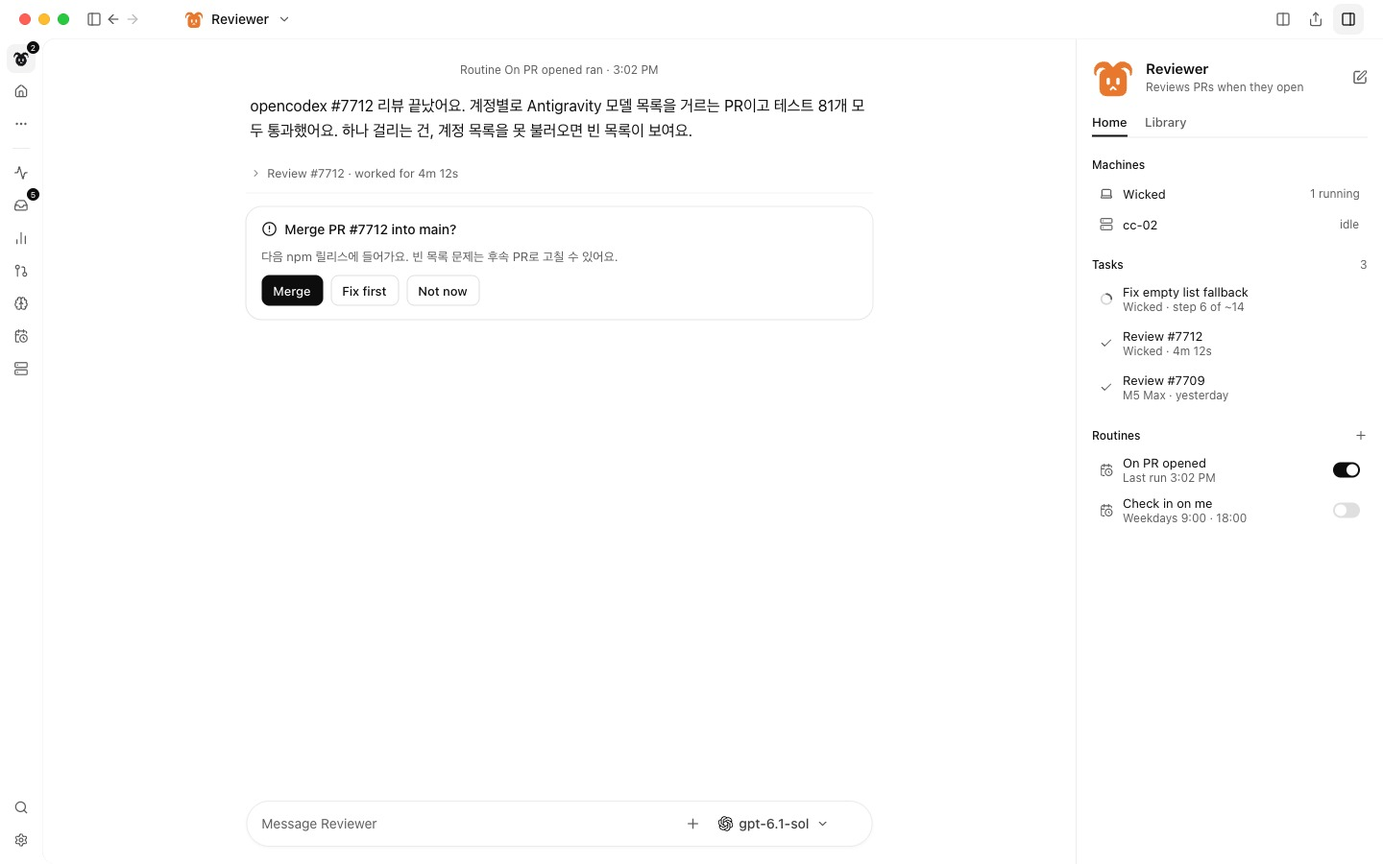
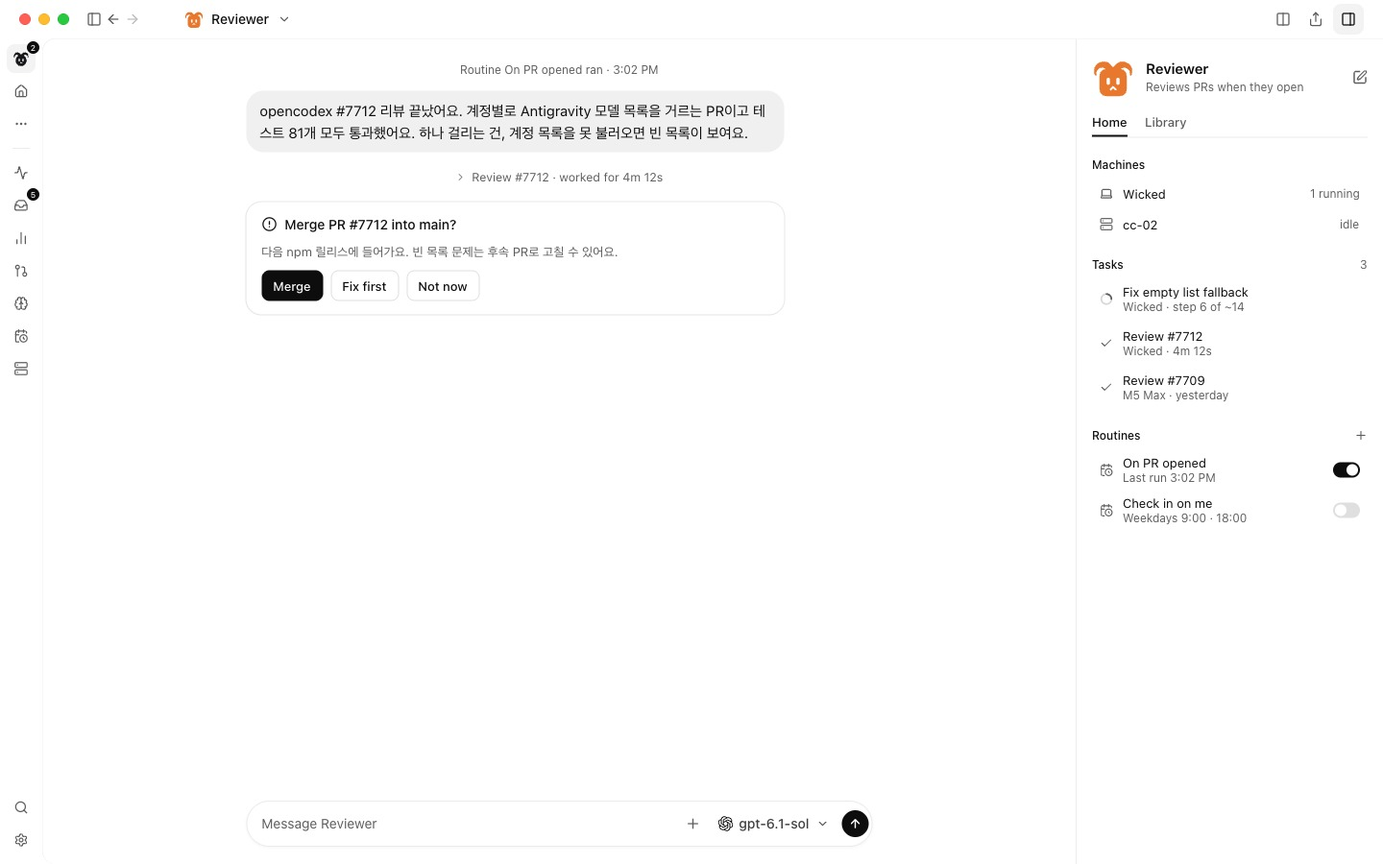
design: bot chat fixes from Grok Bot (reply bubbles, send button, centered task event, card width)

Changed region(s): [[0.1875, 0.0933, 0.625, 0.2178], [0.1875, 0.2489, 0.4375, 0.3733], [0.5938, 0.9333, 0.625, 0.9644]]

diff --git a/design/paper/part1/12P-1.jsx b/design/paper/part1/12P-1.jsx
@@ -395,13 +395,13 @@
                     <div style={{ boxSizing: 'border-box', color: '#5D5D5D', fontFamily: '"SF Pro", system-ui, sans-serif', fontSize: '12px', lineHeight: '16px', textAlign: 'center' }}>
                       Routine On PR opened ran · 3:02 PM
                     </div>
-                    <div style={{ boxSizing: 'border-box', maxWidth: '680px', paddingBlock: '2px', paddingInline: '4px' }}>
-                      <div style={{ boxSizing: 'border-box', color: '#0D0D0D', fontFamily: '"SF Pro", system-ui, sans-serif', fontSize: '16px', lineHeight: '26px' }}>
+                    <div style={{ alignSelf: 'start', backgroundColor: '#F0F0F0', borderRadius: '18px', boxSizing: 'border-box', maxWidth: '560px', paddingBlock: '9px', paddingInline: '14px' }}>
+                      <div style={{ boxSizing: 'border-box', color: '#0D0D0D', fontFamily: '"SF Pro", system-ui, sans-serif', fontSize: '15px', lineHeight: '23px' }}>
                         opencodex #7712 리뷰 끝났어요. 계정별로 Antigravity 모델 목록을 거르는 PR이고 테스트 81개 모두 통과했어요. 하나 걸리는 건, 계정 목록을 못 불러오면 빈 목록이 보여요.
                       </div>
                     </div>
-                    <div style={{ borderBottomColor: '#ECECEC99', borderBottomStyle: 'solid', borderBottomWidth: '1px', boxSizing: 'border-box', display: 'flex', flexDirection: 'column', paddingBottom: '8px', paddingTop: '4px' }}>
-                      <div style={{ alignItems: 'center', boxSizing: 'border-box', display: 'flex', flexShrink: 0, gap: '6px', height: '24px', paddingInline: '4px' }}>
+                    <div style={{ alignItems: 'center', boxSizing: 'border-box', display: 'flex', flexDirection: 'column' }}>
+                      <div style={{ alignItems: 'center', boxSizing: 'border-box', display: 'flex', flexShrink: 0, gap: '6px', height: '24px', justifyContent: 'center', paddingInline: '4px' }}>
                         <svg width="12" height="12" viewBox="0 0 24 24" xmlns="http://www.w3.org/2000/svg" style={{ flexShrink: '0' }}>
                           <path d="m9 18 6-6-6-6" fill="none" stroke="#5D5D5D" strokeWidth="2" strokeLinecap="round" strokeLinejoin="round" />
                         </svg>
@@ -410,7 +410,7 @@
                         </div>
                       </div>
                     </div>
-                    <div style={{ backgroundColor: '#FFFFFF', borderRadius: '16px', boxShadow: '#00000014 0px 0px 0px 1px, #0000000D 0px 1px 2px', boxSizing: 'border-box', display: 'flex', flexDirection: 'column', gap: '10px', paddingBlock: '14px', paddingInline: '16px' }}>
+                    <div style={{ alignSelf: 'start', backgroundColor: '#FFFFFF', borderRadius: '16px', boxShadow: '#00000014 0px 0px 0px 1px, #0000000D 0px 1px 2px', boxSizing: 'border-box', display: 'flex', flexDirection: 'column', gap: '10px', maxWidth: '560px', paddingBlock: '14px', paddingInline: '16px', width: '100%' }}>
                       <div style={{ alignItems: 'center', boxSizing: 'border-box', display: 'flex', gap: '8px' }}>
                         <svg width="16" height="16" viewBox="0 0 24 24" xmlns="http://www.w3.org/2000/svg" style={{ flexShrink: '0' }}>
                           <circle cx="12" cy="12" r="10" fill="none" stroke="#0D0D0D" strokeWidth="2" strokeLinecap="round" strokeLinejoin="round" />
@@ -486,7 +486,12 @@
                           <path d="m6 9 6 6 6-6" fill="none" stroke="#5D5D5D" strokeWidth="2" strokeLinecap="round" strokeLinejoin="round" />
                         </svg>
                       </div>
-                      <div style={{ boxSizing: 'border-box', flexShrink: 0, height: '28px', width: '28px' }} />
+                      <div style={{ alignItems: 'center', backgroundColor: '#0D0D0D', borderRadius: '999px', boxSizing: 'border-box', display: 'flex', flexShrink: '0', height: '28px', justifyContent: 'center', width: '28px' }}>
+                        <svg width="14" height="14" viewBox="0 0 24 24" xmlns="http://www.w3.org/2000/svg" style={{ display: 'inline-block', flexShrink: 0 }}>
+                          <path d="M12 19V5" fill="none" stroke="#FFFFFF" strokeWidth="2.4" strokeLinecap="round" />
+                          <path d="m5 12 7-7 7 7" fill="none" stroke="#FFFFFF" strokeWidth="2.4" strokeLinecap="round" strokeLinejoin="round" />
+                        </svg>
+                      </div>
                     </div>
                   </div>
                 </div>

diff --git a/design/paper/part1/1FKW-0.jsx b/design/paper/part1/1FKW-0.jsx
@@ -405,13 +405,13 @@
                     <div style={{ boxSizing: 'border-box', color: '#5D5D5D', fontFamily: '"SF Pro", system-ui, sans-serif', fontSize: '12px', lineHeight: '16px', textAlign: 'center' }}>
                       Routine On PR opened ran · 3:02 PM
                     </div>
-                    <div style={{ boxSizing: 'border-box', maxWidth: '680px', paddingBlock: '2px', paddingInline: '4px' }}>
-                      <div style={{ boxSizing: 'border-box', color: '#0D0D0D', fontFamily: '"SF Pro", system-ui, sans-serif', fontSize: '16px', lineHeight: '26px' }}>
+                    <div style={{ alignSelf: 'start', backgroundColor: '#F0F0F0', borderRadius: '18px', boxSizing: 'border-box', maxWidth: '560px', paddingBlock: '9px', paddingInline: '14px' }}>
+                      <div style={{ boxSizing: 'border-box', color: '#0D0D0D', fontFamily: '"SF Pro", system-ui, sans-serif', fontSize: '15px', lineHeight: '23px' }}>
                         opencodex #7712 리뷰 끝났어요. 계정별로 Antigravity 모델 목록을 거르는 PR이고 테스트 81개 모두 통과했어요. 하나 걸리는 건, 계정 목록을 못 불러오면 빈 목록이 보여요.
                       </div>
                     </div>
-                    <div style={{ borderBottomColor: '#ECECEC99', borderBottomStyle: 'solid', borderBottomWidth: '1px', boxSizing: 'border-box', display: 'flex', flexDirection: 'column', paddingBottom: '8px', paddingTop: '4px' }}>
-                      <div style={{ alignItems: 'center', boxSizing: 'border-box', display: 'flex', flexShrink: 0, gap: '6px', height: '24px', paddingInline: '4px' }}>
+                    <div style={{ alignItems: 'center', boxSizing: 'border-box', display: 'flex', flexDirection: 'column' }}>
+                      <div style={{ alignItems: 'center', boxSizing: 'border-box', display: 'flex', flexShrink: 0, gap: '6px', height: '24px', justifyContent: 'center', paddingInline: '4px' }}>
                         <svg width="12" height="12" viewBox="0 0 24 24" xmlns="http://www.w3.org/2000/svg" style={{ flexShrink: '0' }}>
                           <path d="m9 18 6-6-6-6" fill="none" stroke="#5D5D5D" strokeWidth="2" strokeLinecap="round" strokeLinejoin="round" />
                         </svg>
@@ -420,7 +420,7 @@
                         </div>
                       </div>
                     </div>
-                    <div style={{ backgroundColor: '#FFFFFF', borderRadius: '16px', boxShadow: '#00000014 0px 0px 0px 1px, #0000000D 0px 1px 2px', boxSizing: 'border-box', display: 'flex', flexDirection: 'column', gap: '10px', paddingBlock: '14px', paddingInline: '16px' }}>
+                    <div style={{ alignSelf: 'start', backgroundColor: '#FFFFFF', borderRadius: '16px', boxShadow: '#00000014 0px 0px 0px 1px, #0000000D 0px 1px 2px', boxSizing: 'border-box', display: 'flex', flexDirection: 'column', gap: '10px', maxWidth: '560px', paddingBlock: '14px', paddingInline: '16px', width: '100%' }}>
                       <div style={{ alignItems: 'center', boxSizing: 'border-box', display: 'flex', gap: '8px' }}>
                         <svg width="16" height="16" viewBox="0 0 24 24" xmlns="http://www.w3.org/2000/svg" style={{ flexShrink: '0' }}>
                           <circle cx="12" cy="12" r="10" fill="none" stroke="#0D0D0D" strokeWidth="2" strokeLinecap="round" strokeLinejoin="round" />
@@ -478,7 +478,12 @@
                           <path d="m6 9 6 6 6-6" fill="none" stroke="#5D5D5D" strokeWidth="2" strokeLinecap="round" strokeLinejoin="round" />
                         </svg>
                       </div>
-                      <div style={{ boxSizing: 'border-box', flexShrink: 0, height: '28px', width: '28px' }} />
+                      <div style={{ alignItems: 'center', backgroundColor: '#0D0D0D', borderRadius: '999px', boxSizing: 'border-box', display: 'flex', flexShrink: '0', height: '28px', justifyContent: 'center', width: '28px' }}>
+                        <svg width="14" height="14" viewBox="0 0 24 24" xmlns="http://www.w3.org/2000/svg" style={{ display: 'inline-block', flexShrink: 0 }}>
+                          <path d="M12 19V5" fill="none" stroke="#FFFFFF" strokeWidth="2.4" strokeLinecap="round" />
+                          <path d="m5 12 7-7 7 7" fill="none" stroke="#FFFFFF" strokeWidth="2.4" strokeLinecap="round" strokeLinejoin="round" />
+                        </svg>
+                      </div>
                     </div>
                   </div>
                 </div>

diff --git a/design/paper/part1/1KL4-1.jsx b/design/paper/part1/1KL4-1.jsx
@@ -385,13 +385,13 @@
                     <div style={{ boxSizing: 'border-box', color: '#5D5D5D', fontFamily: '"SF Pro", system-ui, sans-serif', fontSize: '12px', lineHeight: '16px', textAlign: 'center' }}>
                       Routine On PR opened ran · 3:02 PM
                     </div>
-                    <div style={{ boxSizing: 'border-box', maxWidth: '680px', paddingBlock: '2px', paddingInline: '4px' }}>
-                      <div style={{ boxSizing: 'border-box', color: '#0D0D0D', fontFamily: '"SF Pro", system-ui, sans-serif', fontSize: '16px', lineHeight: '26px' }}>
+                    <div style={{ alignSelf: 'start', backgroundColor: '#F0F0F0', borderRadius: '18px', boxSizing: 'border-box', maxWidth: '560px', paddingBlock: '9px', paddingInline: '14px' }}>
+                      <div style={{ boxSizing: 'border-box', color: '#0D0D0D', fontFamily: '"SF Pro", system-ui, sans-serif', fontSize: '15px', lineHeight: '23px' }}>
                         opencodex #7712 리뷰 끝났어요. 계정별로 Antigravity 모델 목록을 거르는 PR이고 테스트 81개 모두 통과했어요. 하나 걸리는 건, 계정 목록을 못 불러오면 빈 목록이 보여요.
                       </div>
                     </div>
-                    <div style={{ borderBottomColor: '#ECECEC99', borderBottomStyle: 'solid', borderBottomWidth: '1px', boxSizing: 'border-box', display: 'flex', flexDirection: 'column', paddingBottom: '8px', paddingTop: '4px' }}>
-                      <div style={{ alignItems: 'center', boxSizing: 'border-box', display: 'flex', flexShrink: 0, gap: '6px', height: '24px', paddingInline: '4px' }}>
+                    <div style={{ alignItems: 'center', boxSizing: 'border-box', display: 'flex', flexDirection: 'column' }}>
+                      <div style={{ alignItems: 'center', boxSizing: 'border-box', display: 'flex', flexShrink: 0, gap: '6px', height: '24px', justifyContent: 'center', paddingInline: '4px' }}>
                         <svg width="12" height="12" viewBox="0 0 24 24" xmlns="http://www.w3.org/2000/svg" style={{ flexShrink: '0' }}>
                           <path d="m9 18 6-6-6-6" fill="none" stroke="#5D5D5D" strokeWidth="2" strokeLinecap="round" strokeLinejoin="round" />
                         </svg>
@@ -400,7 +400,7 @@
                         </div>
                       </div>
                     </div>
-                    <div style={{ backgroundColor: '#FFFFFF', borderRadius: '16px', boxShadow: '#00000014 0px 0px 0px 1px, #0000000D 0px 1px 2px', boxSizing: 'border-box', display: 'flex', flexDirection: 'column', gap: '10px', paddingBlock: '14px', paddingInline: '16px' }}>
+                    <div style={{ alignSelf: 'start', backgroundColor: '#FFFFFF', borderRadius: '16px', boxShadow: '#00000014 0px 0px 0px 1px, #0000000D 0px 1px 2px', boxSizing: 'border-box', display: 'flex', flexDirection: 'column', gap: '10px', maxWidth: '560px', paddingBlock: '14px', paddingInline: '16px', width: '100%' }}>
                       <div style={{ alignItems: 'center', boxSizing: 'border-box', display: 'flex', gap: '8px' }}>
                         <svg width="16" height="16" viewBox="0 0 24 24" xmlns="http://www.w3.org/2000/svg" style={{ flexShrink: '0' }}>
                           <circle cx="12" cy="12" r="10" fill="none" stroke="#0D0D0D" strokeWidth="2" strokeLinecap="round" strokeLinejoin="round" />
@@ -458,7 +458,12 @@
                           <path d="m6 9 6 6 6-6" fill="none" stroke="#5D5D5D" strokeWidth="2" strokeLinecap="round" strokeLinejoin="round" />
                         </svg>
                       </div>
-                      <div style={{ boxSizing: 'border-box', flexShrink: 0, height: '28px', width: '28px' }} />
+                      <div style={{ alignItems: 'center', backgroundColor: '#0D0D0D', borderRadius: '999px', boxSizing: 'border-box', display: 'flex', flexShrink: '0', height: '28px', justifyContent: 'center', width: '28px' }}>
+                        <svg width="14" height="14" viewBox="0 0 24 24" xmlns="http://www.w3.org/2000/svg" style={{ display: 'inline-block', flexShrink: 0 }}>
+                          <path d="M12 19V5" fill="none" stroke="#FFFFFF" strokeWidth="2.4" strokeLinecap="round" />
+                          <path d="m5 12 7-7 7 7" fill="none" stroke="#FFFFFF" strokeWidth="2.4" strokeLinecap="round" strokeLinejoin="round" />
+                        </svg>
+                      </div>
                     </div>
                   </div>
                 </div>

diff --git a/design/paper/part1/25D-0.jsx b/design/paper/part1/25D-0.jsx
@@ -400,13 +400,13 @@
                     <div style={{ boxSizing: 'border-box', color: '#5D5D5D', fontFamily: '"SF Pro", system-ui, sans-serif', fontSize: '12px', lineHeight: '16px', textAlign: 'center' }}>
                       Routine On PR opened ran · 3:02 PM
                     </div>
-                    <div style={{ boxSizing: 'border-box', maxWidth: '680px', paddingBlock: '2px', paddingInline: '4px' }}>
-                      <div style={{ boxSizing: 'border-box', color: '#0D0D0D', fontFamily: '"SF Pro", system-ui, sans-serif', fontSize: '16px', lineHeight: '26px' }}>
+                    <div style={{ alignSelf: 'start', backgroundColor: '#F0F0F0', borderRadius: '18px', boxSizing: 'border-box', maxWidth: '560px', paddingBlock: '9px', paddingInline: '14px' }}>
+                      <div style={{ boxSizing: 'border-box', color: '#0D0D0D', fontFamily: '"SF Pro", system-ui, sans-serif', fontSize: '15px', lineHeight: '23px' }}>
                         opencodex #7712 리뷰 끝났어요. 계정별로 Antigravity 모델 목록을 거르는 PR이고 테스트 81개 모두 통과했어요. 하나 걸리는 건, 계정 목록을 못 불러오면 빈 목록이 보여요.
                       </div>
                     </div>
-                    <div style={{ borderBottomColor: '#ECECEC99', borderBottomStyle: 'solid', borderBottomWidth: '1px', boxSizing: 'border-box', display: 'flex', flexDirection: 'column', paddingBottom: '8px', paddingTop: '4px' }}>
-                      <div style={{ alignItems: 'center', boxSizing: 'border-box', display: 'flex', flexShrink: 0, gap: '6px', height: '24px', paddingInline: '4px' }}>
+                    <div style={{ alignItems: 'center', boxSizing: 'border-box', display: 'flex', flexDirection: 'column' }}>
+                      <div style={{ alignItems: 'center', boxSizing: 'border-box', display: 'flex', flexShrink: 0, gap: '6px', height: '24px', justifyContent: 'center', paddingInline: '4px' }}>
                         <svg width="12" height="12" viewBox="0 0 24 24" xmlns="http://www.w3.org/2000/svg" style={{ flexShrink: '0' }}>
                           <path d="m9 18 6-6-6-6" fill="none" stroke="#5D5D5D" strokeWidth="2" strokeLinecap="round" strokeLinejoin="round" />
                         </svg>
@@ -415,7 +415,7 @@
                         </div>
                       </div>
                     </div>
-                    <div style={{ backgroundColor: '#FFFFFF', borderRadius: '16px', boxShadow: '#00000014 0px 0px 0px 1px, #0000000D 0px 1px 2px', boxSizing: 'border-box', display: 'flex', flexDirection: 'column', gap: '10px', paddingBlock: '14px', paddingInline: '16px' }}>
+                    <div style={{ alignSelf: 'start', backgroundColor: '#FFFFFF', borderRadius: '16px', boxShadow: '#00000014 0px 0px 0px 1px, #0000000D 0px 1px 2px', boxSizing: 'border-box', display: 'flex', flexDirection: 'column', gap: '10px', maxWidth: '560px', paddingBlock: '14px', paddingInline: '16px', width: '100%' }}>
                       <div style={{ alignItems: 'center', boxSizing: 'border-box', display: 'flex', gap: '8px' }}>
                         <svg width="16" height="16" viewBox="0 0 24 24" xmlns="http://www.w3.org/2000/svg" style={{ flexShrink: '0' }}>
                           <circle cx="12" cy="12" r="10" fill="none" stroke="#0D0D0D" strokeWidth="2" strokeLinecap="round" strokeLinejoin="round" />
@@ -473,7 +473,12 @@
                           <path d="m6 9 6 6 6-6" fill="none" stroke="#5D5D5D" strokeWidth="2" strokeLinecap="round" strokeLinejoin="round" />
                         </svg>
                       </div>
-                      <div style={{ boxSizing: 'border-box', flexShrink: 0, height: '28px', width: '28px' }} />
+                      <div style={{ alignItems: 'center', backgroundColor: '#0D0D0D', borderRadius: '999px', boxSizing: 'border-box', display: 'flex', flexShrink: '0', height: '28px', justifyContent: 'center', width: '28px' }}>
+                        <svg width="14" height="14" viewBox="0 0 24 24" xmlns="http://www.w3.org/2000/svg" style={{ display: 'inline-block', flexShrink: 0 }}>
+                          <path d="M12 19V5" fill="none" stroke="#FFFFFF" strokeWidth="2.4" strokeLinecap="round" />
+                          <path d="m5 12 7-7 7 7" fill="none" stroke="#FFFFFF" strokeWidth="2.4" strokeLinecap="round" strokeLinejoin="round" />
+                        </svg>
+                      </div>
                     </div>
                   </div>
                 </div>

diff --git a/design/paper/part1/2R-1.jsx b/design/paper/part1/2R-1.jsx
@@ -395,13 +395,13 @@
                     <div style={{ boxSizing: 'border-box', color: '#5D5D5D', fontFamily: '"SF Pro", system-ui, sans-serif', fontSize: '12px', lineHeight: '16px', textAlign: 'center' }}>
                       Routine On PR opened ran · 3:02 PM
                     </div>
-                    <div style={{ boxSizing: 'border-box', maxWidth: '680px', paddingBlock: '2px', paddingInline: '4px' }}>
-                      <div style={{ boxSizing: 'border-box', color: '#0D0D0D', fontFamily: '"SF Pro", system-ui, sans-serif', fontSize: '16px', lineHeight: '26px' }}>
+                    <div style={{ alignSelf: 'start', backgroundColor: '#F0F0F0', borderRadius: '18px', boxSizing: 'border-box', maxWidth: '560px', paddingBlock: '9px', paddingInline: '14px' }}>
+                      <div style={{ boxSizing: 'border-box', color: '#0D0D0D', fontFamily: '"SF Pro", system-ui, sans-serif', fontSize: '15px', lineHeight: '23px' }}>
                         opencodex #7712 리뷰 끝났어요. 계정별로 Antigravity 모델 목록을 거르는 PR이고 테스트 81개 모두 통과했어요. 하나 걸리는 건, 계정 목록을 못 불러오면 빈 목록이 보여요.
                       </div>
                     </div>
-                    <div style={{ borderBottomColor: '#ECECEC99', borderBottomStyle: 'solid', borderBottomWidth: '1px', boxSizing: 'border-box', display: 'flex', flexDirection: 'column', paddingBottom: '8px', paddingTop: '4px' }}>
-                      <div style={{ alignItems: 'center', boxSizing: 'border-box', display: 'flex', flexShrink: 0, gap: '6px', height: '24px', paddingInline: '4px' }}>
+                    <div style={{ alignItems: 'center', boxSizing: 'border-box', display: 'flex', flexDirection: 'column' }}>
+                      <div style={{ alignItems: 'center', boxSizing: 'border-box', display: 'flex', flexShrink: 0, gap: '6px', height: '24px', justifyContent: 'center', paddingInline: '4px' }}>
                         <svg width="12" height="12" viewBox="0 0 24 24" xmlns="http://www.w3.org/2000/svg" style={{ flexShrink: '0' }}>
                           <path d="m9 18 6-6-6-6" fill="none" stroke="#5D5D5D" strokeWidth="2" strokeLinecap="round" strokeLinejoin="round" />
                         </svg>
@@ -410,7 +410,7 @@
                         </div>
                       </div>
                     </div>
-                    <div style={{ backgroundColor: '#FFFFFF', borderRadius: '16px', boxShadow: '#00000014 0px 0px 0px 1px, #0000000D 0px 1px 2px', boxSizing: 'border-box', display: 'flex', flexDirection: 'column', gap: '10px', paddingBlock: '14px', paddingInline: '16px' }}>
+                    <div style={{ alignSelf: 'start', backgroundColor: '#FFFFFF', borderRadius: '16px', boxShadow: '#00000014 0px 0px 0px 1px, #0000000D 0px 1px 2px', boxSizing: 'border-box', display: 'flex', flexDirection: 'column', gap: '10px', maxWidth: '560px', paddingBlock: '14px', paddingInline: '16px', width: '100%' }}>
                       <div style={{ alignItems: 'center', boxSizing: 'border-box', display: 'flex', gap: '8px' }}>
                         <svg width="16" height="16" viewBox="0 0 24 24" xmlns="http://www.w3.org/2000/svg" style={{ flexShrink: '0' }}>
                           <circle cx="12" cy="12" r="10" fill="none" stroke="#0D0D0D" strokeWidth="2" strokeLinecap="round" strokeLinejoin="round" />
@@ -468,7 +468,12 @@
                           <path d="m6 9 6 6 6-6" fill="none" stroke="#5D5D5D" strokeWidth="2" strokeLinecap="round" strokeLinejoin="round" />
                         </svg>
                       </div>
-                      <div style={{ boxSizing: 'border-box', flexShrink: 0, height: '28px', width: '28px' }} />
+                      <div style={{ alignItems: 'center', backgroundColor: '#0D0D0D', borderRadius: '999px', boxSizing: 'border-box', display: 'flex', flexShrink: '0', height: '28px', justifyContent: 'center', width: '28px' }}>
+                        <svg width="14" height="14" viewBox="0 0 24 24" xmlns="http://www.w3.org/2000/svg" style={{ display: 'inline-block', flexShrink: 0 }}>
+                          <path d="M12 19V5" fill="none" stroke="#FFFFFF" strokeWidth="2.4" strokeLinecap="round" />
+                          <path d="m5 12 7-7 7 7" fill="none" stroke="#FFFFFF" strokeWidth="2.4" strokeLinecap="round" strokeLinejoin="round" />
+                        </svg>
+                      </div>
                     </div>
                   </div>
                 </div>

diff --git a/design/paper/part1/FF-1.jsx b/design/paper/part1/FF-1.jsx
@@ -181,13 +181,13 @@
                     <div style={{ boxSizing: 'border-box', color: '#5D5D5D', fontFamily: '"SF Pro", system-ui, sans-serif', fontSize: '12px', lineHeight: '16px', textAlign: 'center' }}>
                       Routine On PR opened ran · 3:02 PM
                     </div>
-                    <div style={{ boxSizing: 'border-box', maxWidth: '680px', paddingBlock: '2px', paddingInline: '4px' }}>
-                      <div style={{ boxSizing: 'border-box', color: '#0D0D0D', fontFamily: '"SF Pro", system-ui, sans-serif', fontSize: '16px', lineHeight: '26px' }}>
+                    <div style={{ alignSelf: 'start', backgroundColor: '#F0F0F0', borderRadius: '18px', boxSizing: 'border-box', maxWidth: '560px', paddingBlock: '9px', paddingInline: '14px' }}>
+                      <div style={{ boxSizing: 'border-box', color: '#0D0D0D', fontFamily: '"SF Pro", system-ui, sans-serif', fontSize: '15px', lineHeight: '23px' }}>
                         opencodex #7712 리뷰 끝났어요. 계정별로 Antigravity 모델 목록을 거르는 PR이고 테스트 81개 모두 통과했어요. 하나 걸리는 건, 계정 목록을 못 불러오면 빈 목록이 보여요.
                       </div>
                     </div>
-                    <div style={{ borderBottomColor: '#ECECEC99', borderBottomStyle: 'solid', borderBottomWidth: '1px', boxSizing: 'border-box', display: 'flex', flexDirection: 'column', paddingBottom: '8px', paddingTop: '4px' }}>
-                      <div style={{ alignItems: 'center', boxSizing: 'border-box', display: 'flex', flexShrink: 0, gap: '6px', height: '24px', paddingInline: '4px' }}>
+                    <div style={{ alignItems: 'center', boxSizing: 'border-box', display: 'flex', flexDirection: 'column' }}>
+                      <div style={{ alignItems: 'center', boxSizing: 'border-box', display: 'flex', flexShrink: 0, gap: '6px', height: '24px', justifyContent: 'center', paddingInline: '4px' }}>
                         <svg width="12" height="12" viewBox="0 0 24 24" xmlns="http://www.w3.org/2000/svg" style={{ flexShrink: '0' }}>
                           <path d="m9 18 6-6-6-6" fill="none" stroke="#5D5D5D" strokeWidth="2" strokeLinecap="round" strokeLinejoin="round" />
                         </svg>
@@ -196,7 +196,7 @@
                         </div>
                       </div>
                     </div>
-                    <div style={{ backgroundColor: '#FFFFFF', borderRadius: '16px', boxShadow: '#00000014 0px 0px 0px 1px, #0000000D 0px 1px 2px', boxSizing: 'border-box', display: 'flex', flexDirection: 'column', gap: '10px', paddingBlock: '14px', paddingInline: '16px' }}>
+                    <div style={{ alignSelf: 'start', backgroundColor: '#FFFFFF', borderRadius: '16px', boxShadow: '#00000014 0px 0px 0px 1px, #0000000D 0px 1px 2px', boxSizing: 'border-box', display: 'flex', flexDirection: 'column', gap: '10px', maxWidth: '560px', paddingBlock: '14px', paddingInline: '16px', width: '100%' }}>
                       <div style={{ alignItems: 'center', boxSizing: 'border-box', display: 'flex', gap: '8px' }}>
                         <svg width="16" height="16" viewBox="0 0 24 24" xmlns="http://www.w3.org/2000/svg" style={{ flexShrink: '0' }}>
                           <circle cx="12" cy="12" r="10" fill="none" stroke="#0D0D0D" strokeWidth="2" strokeLinecap="round" strokeLinejoin="round" />
@@ -254,7 +254,12 @@
                           <path d="m6 9 6 6 6-6" fill="none" stroke="#5D5D5D" strokeWidth="2" strokeLinecap="round" strokeLinejoin="round" />
                         </svg>
                       </div>
-                      <div style={{ boxSizing: 'border-box', flexShrink: 0, height: '28px', width: '28px' }} />
+                      <div style={{ alignItems: 'center', backgroundColor: '#0D0D0D', borderRadius: '999px', boxSizing: 'border-box', display: 'flex', flexShrink: '0', height: '28px', justifyContent: 'center', width: '28px' }}>
+                        <svg width="14" height="14" viewBox="0 0 24 24" xmlns="http://www.w3.org/2000/svg" style={{ display: 'inline-block', flexShrink: 0 }}>
+                          <path d="M12 19V5" fill="none" stroke="#FFFFFF" strokeWidth="2.4" strokeLinecap="round" />
+                          <path d="m5 12 7-7 7 7" fill="none" stroke="#FFFFFF" strokeWidth="2.4" strokeLinecap="round" strokeLinejoin="round" />
+                        </svg>
+                      </div>
                     </div>
                   </div>
                 </div>

diff --git a/design/paper/part1/U8-1.jsx b/design/paper/part1/U8-1.jsx
@@ -400,13 +400,13 @@
                     <div style={{ boxSizing: 'border-box', color: '#5D5D5D', fontFamily: '"SF Pro", system-ui, sans-serif', fontSize: '12px', lineHeight: '16px', textAlign: 'center' }}>
                       Routine On PR opened ran · 3:02 PM
                     </div>
-                    <div style={{ boxSizing: 'border-box', maxWidth: '680px', paddingBlock: '2px', paddingInline: '4px' }}>
-                      <div style={{ boxSizing: 'border-box', color: '#0D0D0D', fontFamily: '"SF Pro", system-ui, sans-serif', fontSize: '16px', lineHeight: '26px' }}>
+                    <div style={{ alignSelf: 'start', backgroundColor: '#F0F0F0', borderRadius: '18px', boxSizing: 'border-box', maxWidth: '560px', paddingBlock: '9px', paddingInline: '14px' }}>
+                      <div style={{ boxSizing: 'border-box', color: '#0D0D0D', fontFamily: '"SF Pro", system-ui, sans-serif', fontSize: '15px', lineHeight: '23px' }}>
                         opencodex #7712 리뷰 끝났어요. 계정별로 Antigravity 모델 목록을 거르는 PR이고 테스트 81개 모두 통과했어요. 하나 걸리는 건, 계정 목록을 못 불러오면 빈 목록이 보여요.
                       </div>
                     </div>
-                    <div style={{ borderBottomColor: '#ECECEC99', borderBottomStyle: 'solid', borderBottomWidth: '1px', boxSizing: 'border-box', display: 'flex', flexDirection: 'column', paddingBottom: '8px', paddingTop: '4px' }}>
-                      <div style={{ alignItems: 'center', boxSizing: 'border-box', display: 'flex', flexShrink: 0, gap: '6px', height: '24px', paddingInline: '4px' }}>
+                    <div style={{ alignItems: 'center', boxSizing: 'border-box', display: 'flex', flexDirection: 'column' }}>
+                      <div style={{ alignItems: 'center', boxSizing: 'border-box', display: 'flex', flexShrink: 0, gap: '6px', height: '24px', justifyContent: 'center', paddingInline: '4px' }}>
                         <svg width="12" height="12" viewBox="0 0 24 24" xmlns="http://www.w3.org/2000/svg" style={{ flexShrink: '0' }}>
                           <path d="m9 18 6-6-6-6" fill="none" stroke="#5D5D5D" strokeWidth="2" strokeLinecap="round" strokeLinejoin="round" />
                         </svg>
@@ -415,7 +415,7 @@
                         </div>
                       </div>
                     </div>
-                    <div style={{ backgroundColor: '#FFFFFF', borderRadius: '16px', boxShadow: '#00000014 0px 0px 0px 1px, #0000000D 0px 1px 2px', boxSizing: 'border-box', display: 'flex', flexDirection: 'column', gap: '10px', paddingBlock: '14px', paddingInline: '16px' }}>
+                    <div style={{ alignSelf: 'start', backgroundColor: '#FFFFFF', borderRadius: '16px', boxShadow: '#00000014 0px 0px 0px 1px, #0000000D 0px 1px 2px', boxSizing: 'border-box', display: 'flex', flexDirection: 'column', gap: '10px', maxWidth: '560px', paddingBlock: '14px', paddingInline: '16px', width: '100%' }}>
                       <div style={{ alignItems: 'center', boxSizing: 'border-box', display: 'flex', gap: '8px' }}>
                         <svg width="16" height="16" viewBox="0 0 24 24" xmlns="http://www.w3.org/2000/svg" style={{ flexShrink: '0' }}>
                           <circle cx="12" cy="12" r="10" fill="none" stroke="#0D0D0D" strokeWidth="2" strokeLinecap="round" strokeLinejoin="round" />
@@ -473,7 +473,12 @@
                           <path d="m6 9 6 6 6-6" fill="none" stroke="#5D5D5D" strokeWidth="2" strokeLinecap="round" strokeLinejoin="round" />
                         </svg>
                       </div>
-                      <div style={{ boxSizing: 'border-box', flexShrink: 0, height: '28px', width: '28px' }} />
+                      <div style={{ alignItems: 'center', backgroundColor: '#0D0D0D', borderRadius: '999px', boxSizing: 'border-box', display: 'flex', flexShrink: '0', height: '28px', justifyContent: 'center', width: '28px' }}>
+                        <svg width="14" height="14" viewBox="0 0 24 24" xmlns="http://www.w3.org/2000/svg" style={{ display: 'inline-block', flexShrink: 0 }}>
+                          <path d="M12 19V5" fill="none" stroke="#FFFFFF" strokeWidth="2.4" strokeLinecap="round" />
+                          <path d="m5 12 7-7 7 7" fill="none" stroke="#FFFFFF" strokeWidth="2.4" strokeLinecap="round" strokeLinejoin="round" />
+                        </svg>
+                      </div>
                     </div>
                   </div>
                 </div>

diff --git a/design/paper/part1/MB-1.jsx b/design/paper/part1/MB-1.jsx
@@ -412,13 +412,13 @@
                     <div style={{ boxSizing: 'border-box', color: '#5D5D5D', fontFamily: '"SF Pro", system-ui, sans-serif', fontSize: '12px', lineHeight: '16px', textAlign: 'center' }}>
                       Routine On PR opened ran · 3:02 PM
                     </div>
-                    <div style={{ boxSizing: 'border-box', maxWidth: '680px', paddingBlock: '2px', paddingInline: '4px' }}>
-                      <div style={{ boxSizing: 'border-box', color: '#0D0D0D', fontFamily: '"SF Pro", system-ui, sans-serif', fontSize: '16px', lineHeight: '26px' }}>
+                    <div style={{ alignSelf: 'start', backgroundColor: '#F0F0F0', borderRadius: '18px', boxSizing: 'border-box', maxWidth: '560px', paddingBlock: '9px', paddingInline: '14px' }}>
+                      <div style={{ boxSizing: 'border-box', color: '#0D0D0D', fontFamily: '"SF Pro", system-ui, sans-serif', fontSize: '15px', lineHeight: '23px' }}>
                         opencodex #7712 리뷰 끝났어요. 계정별로 Antigravity 모델 목록을 거르는 PR이고 테스트 81개 모두 통과했어요. 하나 걸리는 건, 계정 목록을 못 불러오면 빈 목록이 보여요.
                       </div>
                     </div>
-                    <div style={{ borderBottomColor: '#ECECEC99', borderBottomStyle: 'solid', borderBottomWidth: '1px', boxSizing: 'border-box', display: 'flex', flexDirection: 'column', paddingBottom: '8px', paddingTop: '4px' }}>
-                      <div style={{ alignItems: 'center', boxSizing: 'border-box', display: 'flex', flexShrink: 0, gap: '6px', height: '24px', paddingInline: '4px' }}>
+                    <div style={{ alignItems: 'center', boxSizing: 'border-box', display: 'flex', flexDirection: 'column' }}>
+                      <div style={{ alignItems: 'center', boxSizing: 'border-box', display: 'flex', flexShrink: 0, gap: '6px', height: '24px', justifyContent: 'center', paddingInline: '4px' }}>
                         <svg width="12" height="12" viewBox="0 0 24 24" xmlns="http://www.w3.org/2000/svg" style={{ flexShrink: '0' }}>
                           <path d="m9 18 6-6-6-6" fill="none" stroke="#5D5D5D" strokeWidth="2" strokeLinecap="round" strokeLinejoin="round" />
                         </svg>
@@ -427,7 +427,7 @@
                         </div>
                       </div>
                     </div>
-                    <div style={{ backgroundColor: '#FFFFFF', borderRadius: '16px', boxShadow: '#00000014 0px 0px 0px 1px, #0000000D 0px 1px 2px', boxSizing: 'border-box', display: 'flex', flexDirection: 'column', gap: '10px', paddingBlock: '14px', paddingInline: '16px' }}>
+                    <div style={{ alignSelf: 'start', backgroundColor: '#FFFFFF', borderRadius: '16px', boxShadow: '#00000014 0px 0px 0px 1px, #0000000D 0px 1px 2px', boxSizing: 'border-box', display: 'flex', flexDirection: 'column', gap: '10px', maxWidth: '560px', paddingBlock: '14px', paddingInline: '16px', width: '100%' }}>
                       <div style={{ alignItems: 'center', boxSizing: 'border-box', display: 'flex', gap: '8px' }}>
                         <svg width="16" height="16" viewBox="0 0 24 24" xmlns="http://www.w3.org/2000/svg" style={{ flexShrink: '0' }}>
                           <circle cx="12" cy="12" r="10" fill="none" stroke="#0D0D0D" strokeWidth="2" strokeLinecap="round" strokeLinejoin="round" />

diff --git a/design/paper/part1/README.md b/design/paper/part1/README.md
@@ -50,3 +50,15 @@ bottom and right edges of the window: no 8px bottom/right inset; the workspace k
 and has **no bottom or right border line**: borders are top + left only, so the bottom-left curve ends cleanly at the
 window's bottom edge (owner correction ~22:35 KST). All desktop boards were changed and the bot home
 boards re-exported.
+
+**Bot chat fixes from Grok Bot hands-on (owner, 2026-11-28 ~23:00 KST, Grok Bot 1.3.x desktop).** Applied to every bot
+home board:
+- Bot replies sit in a gray bubble (`#F0F0F0`, radius 18, 9/14 padding, max 560px, 15/23 text), as the PRD bot-reply
+  rule says ("말풍선 하나"); before, bot text was unbubbled like a thread transcript. User messages stay a dark pill on the right.
+- The composer had an empty 28px placeholder where the send button belongs; it is now a black round send button with an
+  up arrow (Grok: black circle, arrow up).
+- The task row ("Review #7712 · worked for 4m 12s") is a centered quiet event line like Grok's "Messaged 5 agents" /
+  "Created 3 routines", no divider; clicking it still opens the task in the side panel (25D-0).
+- The decision card is limited to the bubble column (max 560px, left-aligned).
+Not changed (open, owner to decide): Grok shows the bot name as a floating centered pill that opens details and keeps
+the details panel closed by default; GOAT 2 keeps the name in the 40px top bar and the panel open on 2R-1.
